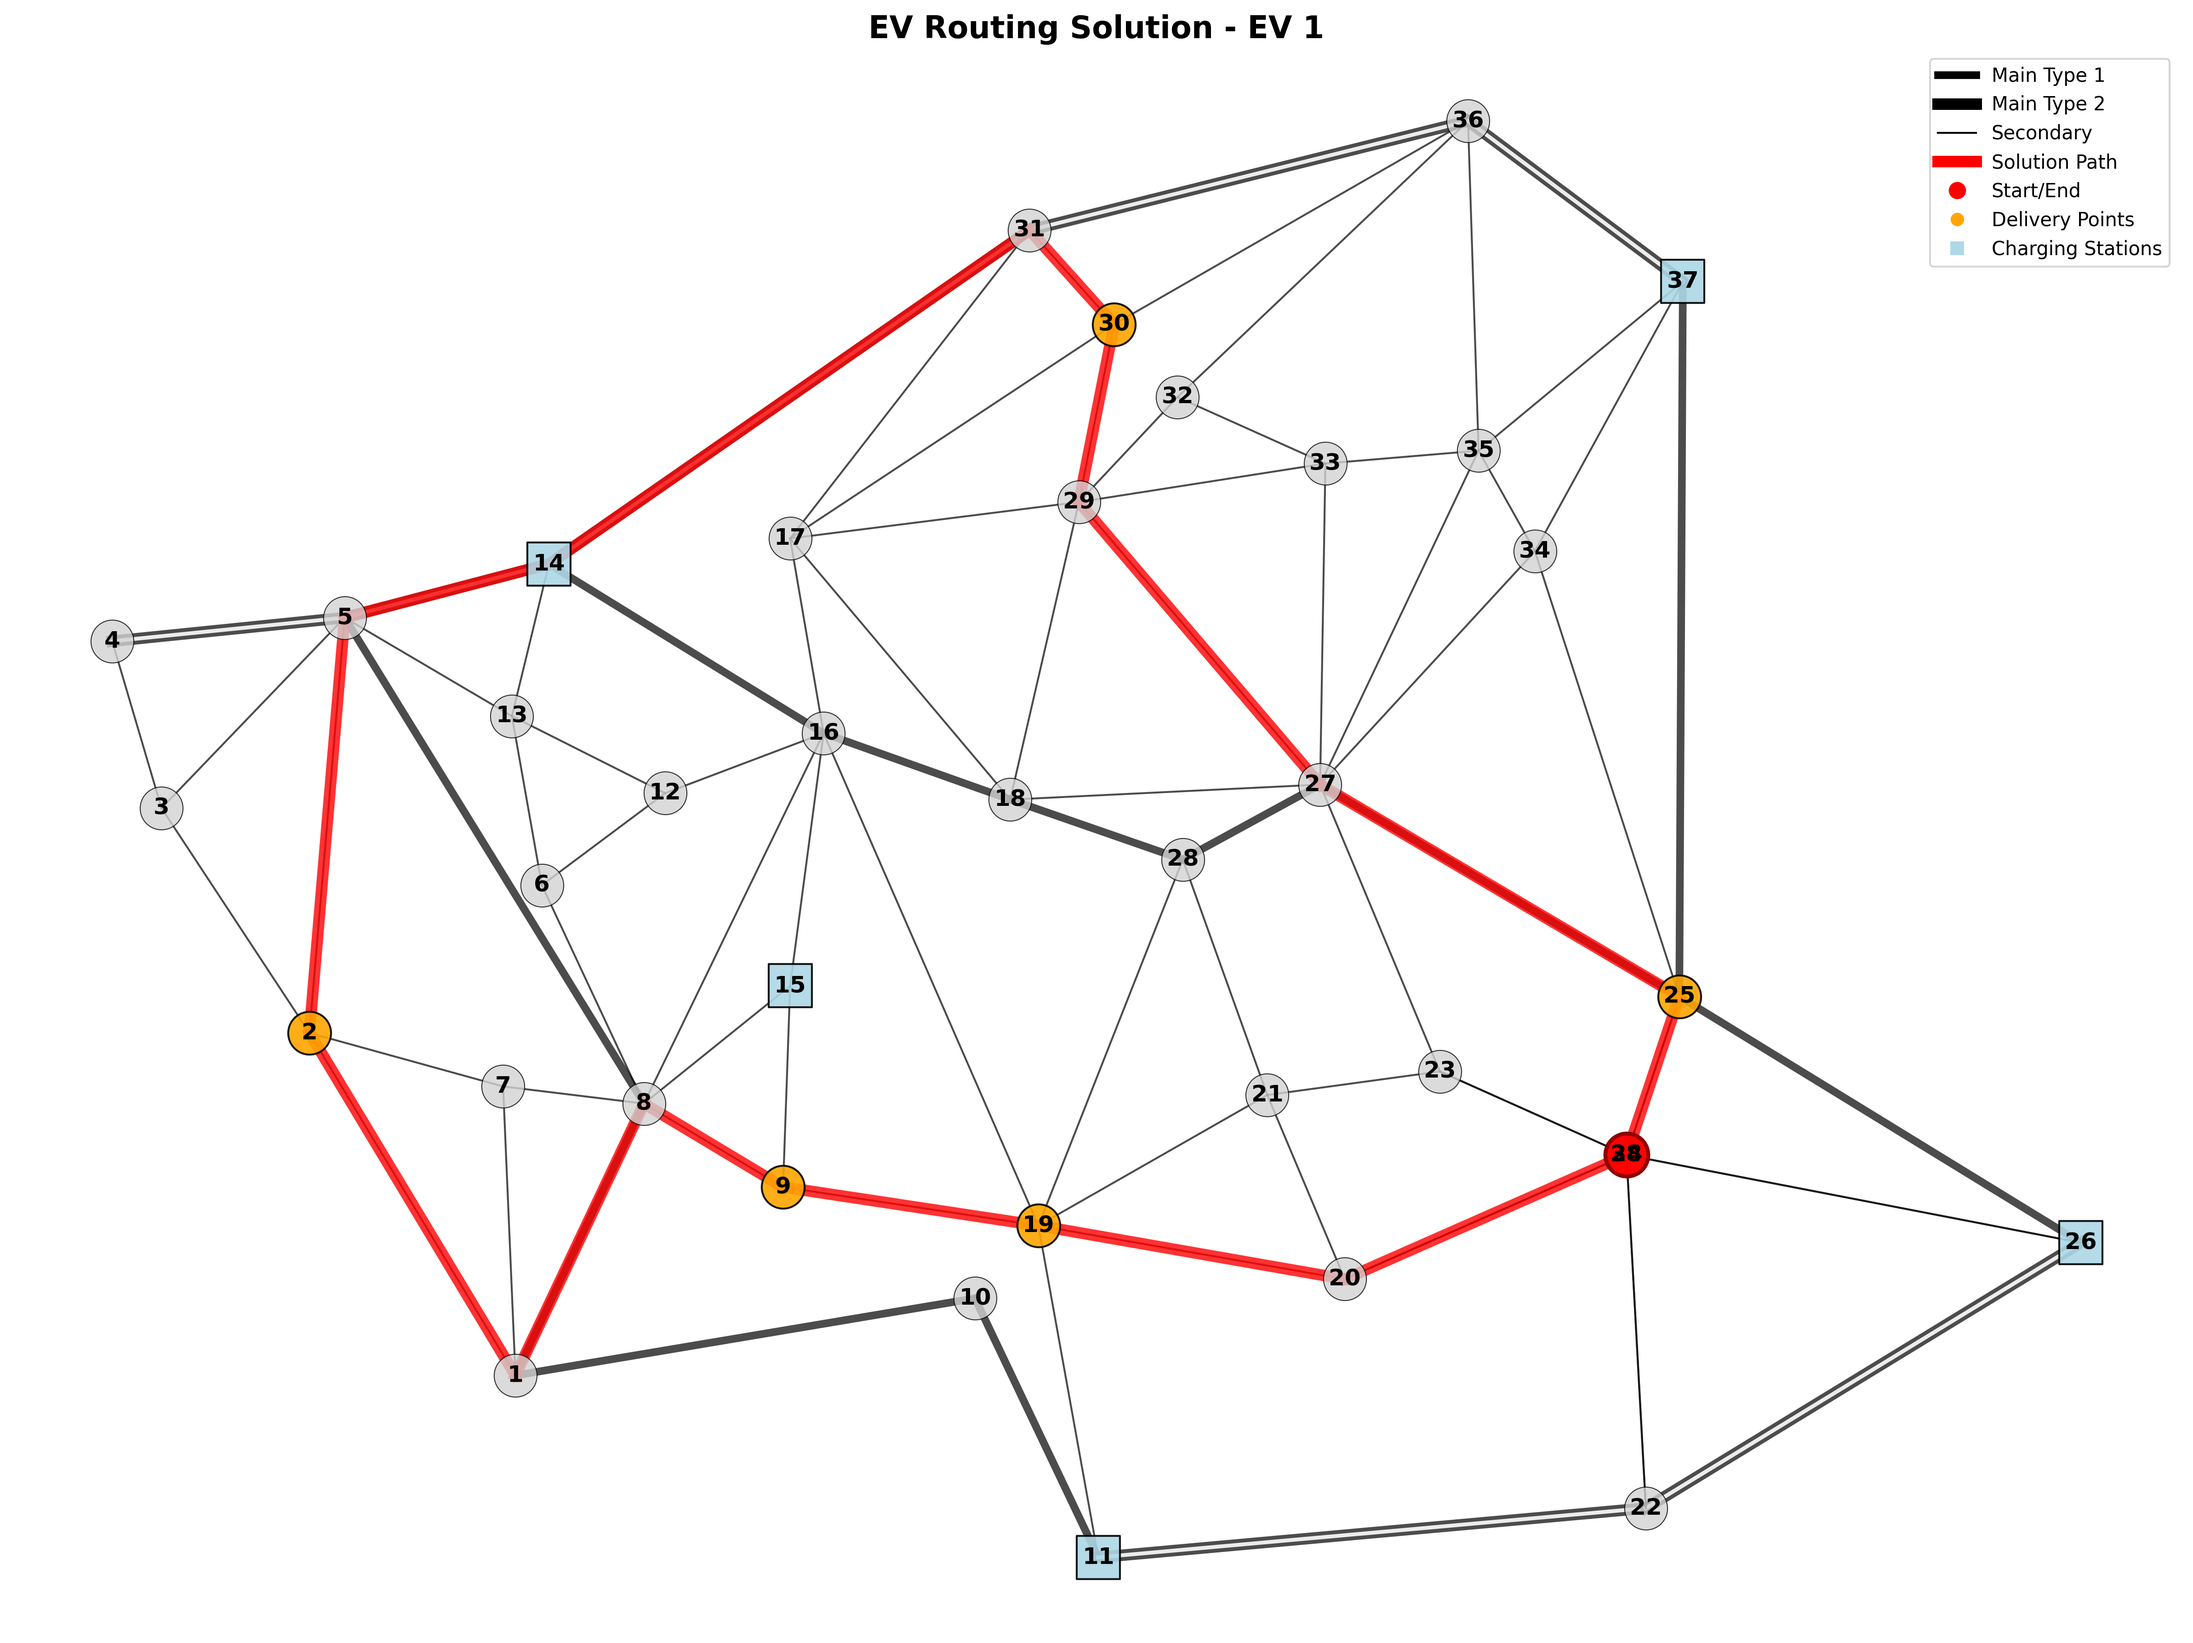
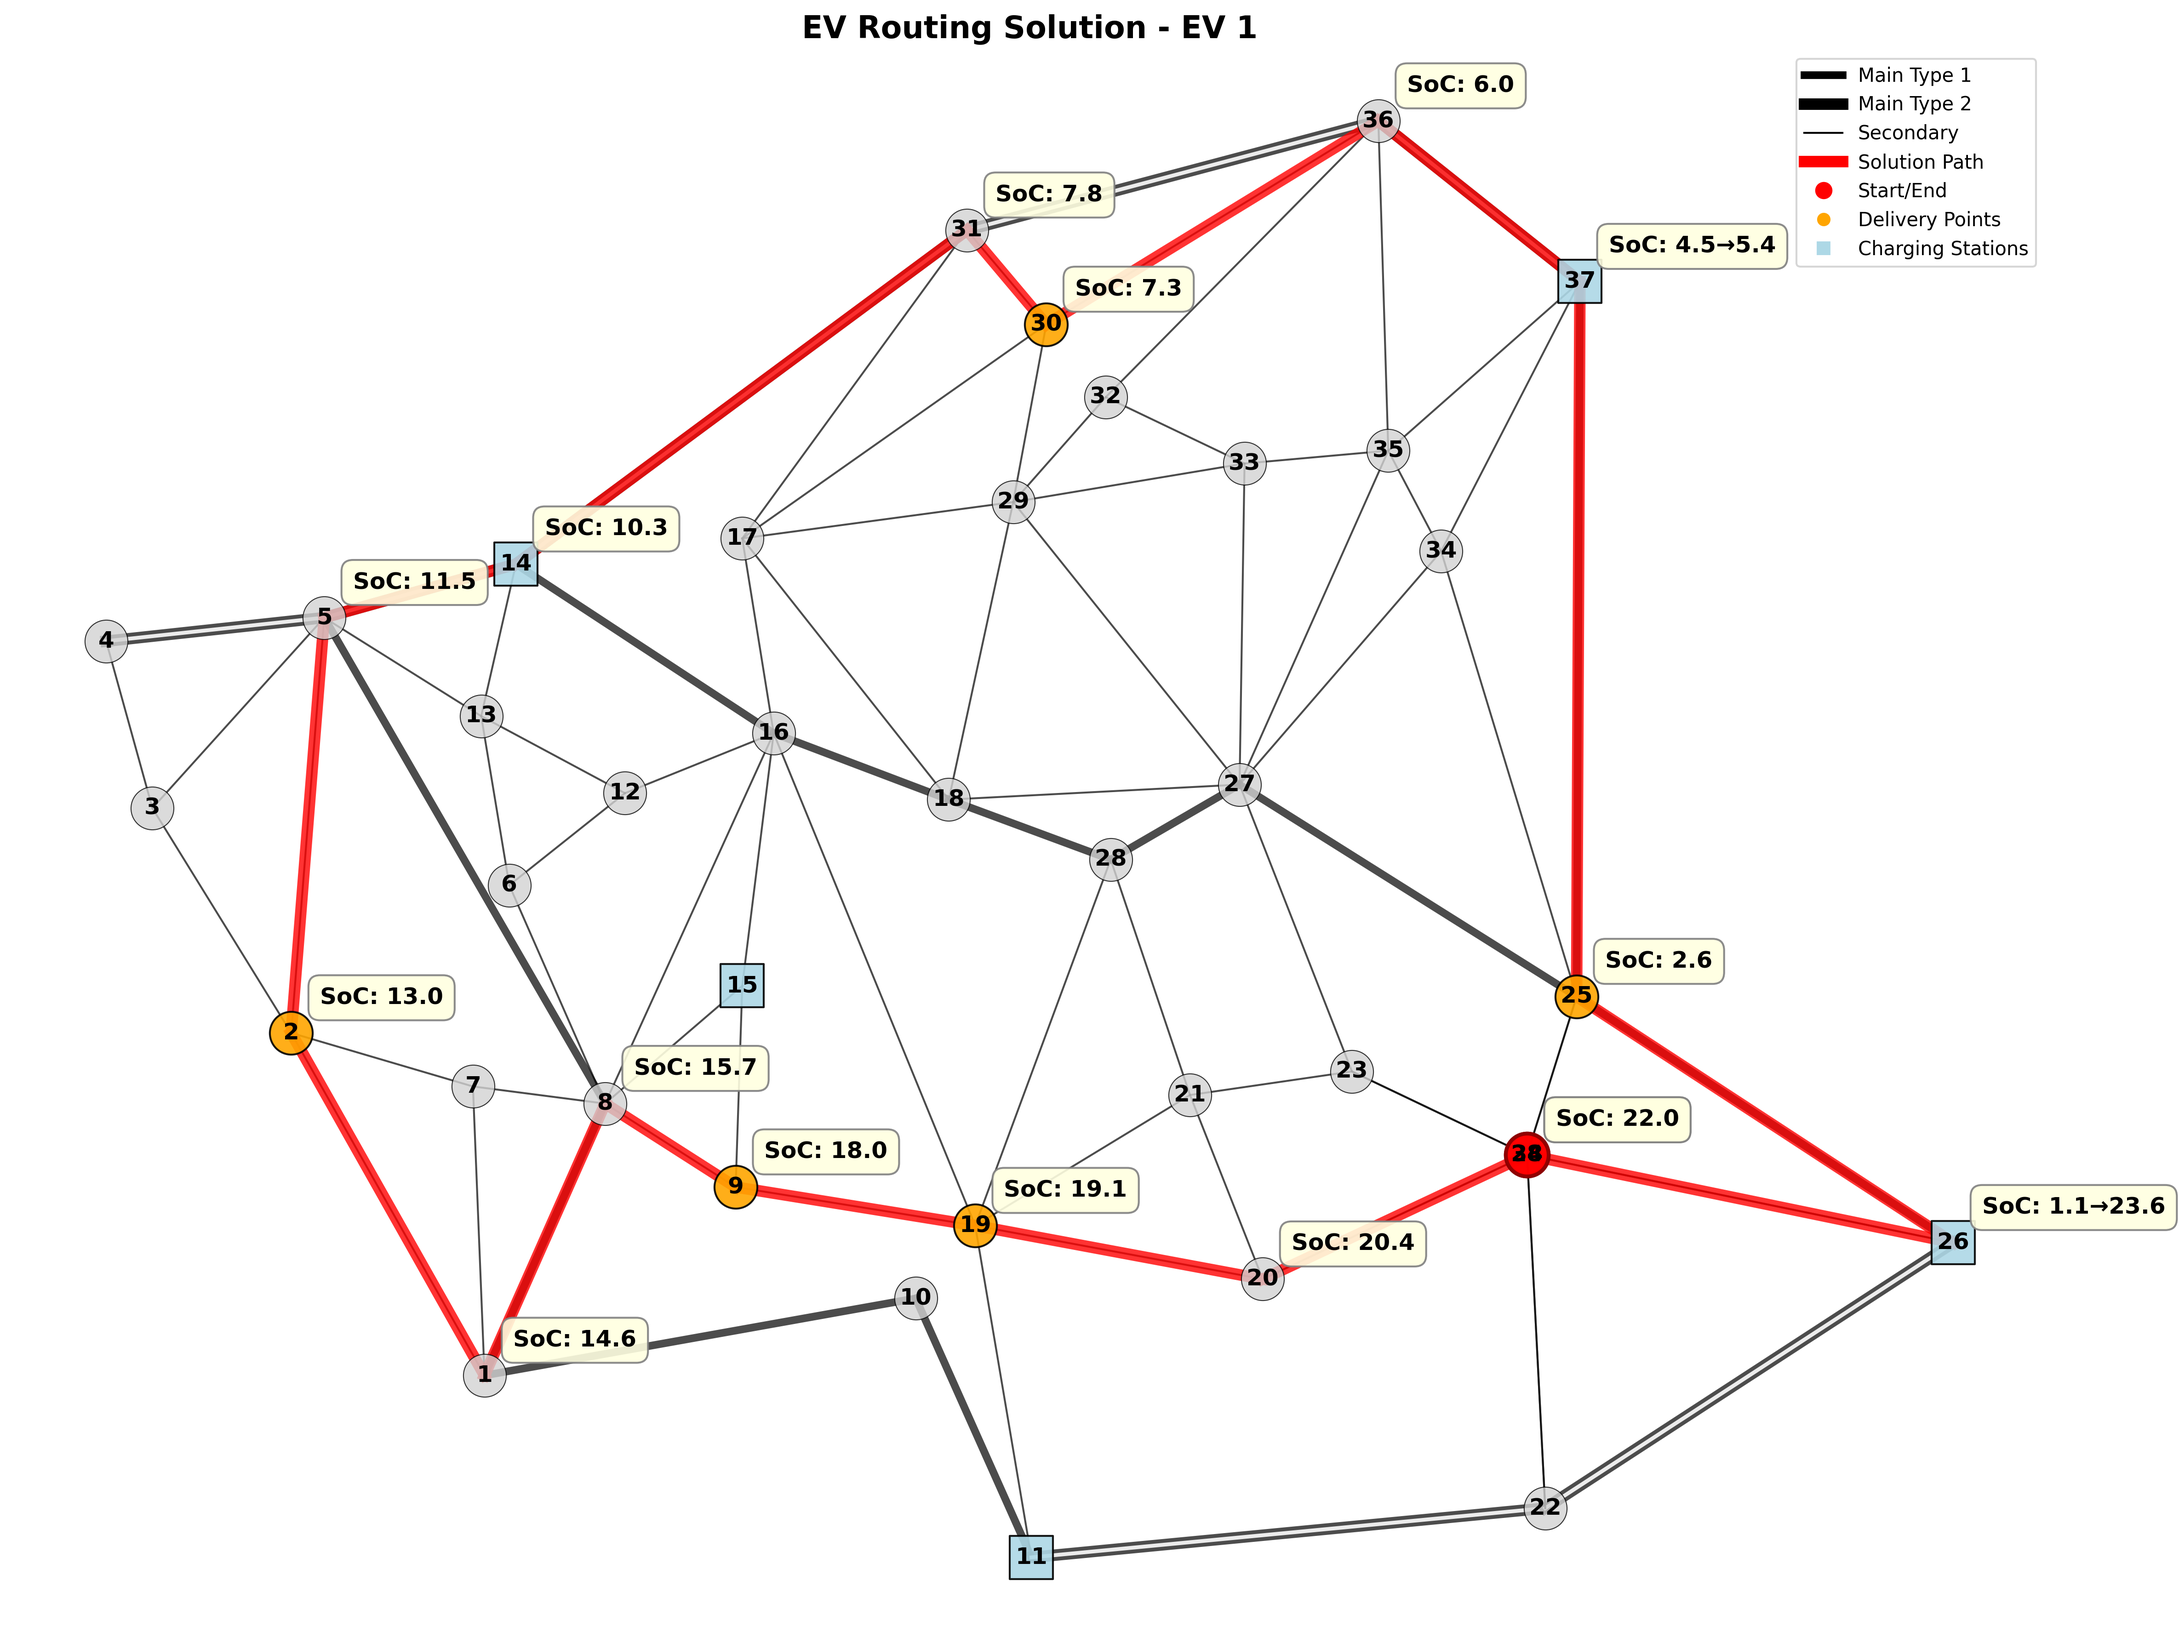
Battery constraints

diff --git a/model/ev_routing_model.py b/model/ev_routing_model.py
@@ -41,13 +41,13 @@ def get_ev_routing_abstract_model():
     m.pKineticEnergy = pyo.Param(m.sPaths, within=pyo.NonNegativeReals)
 
     # Parameters indexed by sDeliveryPoints
-    m.pDeliveryIntersection = pyo.Param(m.sDeliveryPoints, within=m.sIntersections)
+    # m.pDeliveryIntersection = pyo.Param(m.sDeliveryPoints, within=m.sIntersections)  # Unnecessary, since sDeliveryPoints is a subset of sIntersections
     m.pTimeMakingDelivery = pyo.Param(m.sDeliveryPoints, within=pyo.NonNegativeReals)
     m.pTimeWithoutPenalty = pyo.Param(m.sDeliveryPoints, within=pyo.NonNegativeReals)
     m.pDelayPenalty = pyo.Param(m.sDeliveryPoints, within=pyo.NonNegativeReals)
 
     # Parameters indexed by sChargingStations
-    m.pStationIntersection = pyo.Param(m.sChargingStations, within=m.sIntersections)
+    # m.pStationIntersection = pyo.Param(m.sChargingStations, within=m.sIntersections)  # Unnecessary, since sChargingStations is a subset of sIntersections
     m.pChargingPower = pyo.Param(m.sChargingStations, within=pyo.NonNegativeReals)
     m.pChargingPrice = pyo.Param(m.sChargingStations, within=pyo.NonNegativeReals)
     m.pMaxChargingTime = pyo.Param(m.sChargingStations, within=pyo.NonNegativeReals)
@@ -208,7 +208,75 @@ def get_ev_routing_abstract_model():
     # Battery constraints
     # ----
 
-    # TODO: add the battery constraints
+    def c24_soc_arrival_lower_bound(m, intersection):
+        return m.vSoCArrival[intersection] >= m.v01VisitIntersection[intersection] * m.pMinSoC
+
+    m.c24_soc_arrival_lower_bound = pyo.Constraint(
+        m.sIntersections, rule=c24_soc_arrival_lower_bound
+    )
+
+    def c24_soc_arrival_upper_bound(m, intersection):
+        return m.vSoCArrival[intersection] <= m.v01VisitIntersection[intersection] * m.pMaxSoC
+    
+    m.c24_soc_arrival_upper_bound = pyo.Constraint(
+        m.sIntersections, rule=c24_soc_arrival_upper_bound
+    )
+
+    def c25_soc_departure_charging_station(m, charging_station):
+        return (
+            m.vSoCDeparture[charging_station] == 
+            m.vSoCArrival[charging_station] + 
+            m.pChargingPower[charging_station] * m.vTimeCharging[charging_station] * m.pChargerEfficiencyRate[charging_station]
+        )
+
+    m.c25_soc_departure_charging_station = pyo.Constraint(
+        m.sChargingStations, rule=c25_soc_departure_charging_station
+    )
+
+    def c27_soc_departure_non_charging_station(m, intersection):
+        return m.vSoCDeparture[intersection] == m.vSoCArrival[intersection]
+
+    m.c27_soc_departure_non_charging_station = pyo.Constraint(
+        # Set differences are allowed - See https://pyomo.readthedocs.io/en/6.8.0/pyomo_modeling_components/Sets.html#operations
+        m.sIntersections - m.sChargingStations, rule=c27_soc_departure_non_charging_station
+    )
+
+    def c42_soc_starting_point(m):
+        # Multiplying by the binary variable here is unnecessary due to constraint c40_visit_starting_point
+        return m.vSoCArrival[m.pStartingPoint] == m.v01VisitIntersection[m.pStartingPoint] * m.pStartingSoC
+
+    m.c42_soc_starting_point = pyo.Constraint(
+        rule=c42_soc_starting_point
+    )
+
+    def c43_soc_arrival_energy_balance(m, intersection):
+        # Skip for starting point as it's handled by c42
+        if intersection == m.pStartingPoint:
+            return pyo.Constraint.Skip
+        
+        # This is the non-linear constraint as specified in the documentation
+        # SoC arrival = SoC departure from origin - power consumption - acceleration energy + braking energy
+        return m.vSoCArrival[intersection] == sum(
+            m.v01TravelPath[path] * (
+                m.vSoCDeparture[m.pOriginIntersection[path]] -
+                m.pPowerConsAtAvgSpeed[path] * (m.pDistanceAtAvgSpeed[path] / m.pAvgSpeed[path]) -
+                (1 / m.pAccelerationEfficiency - m.pBrakingEfficiency) * m.pKineticEnergy[path]
+            )
+            for path in m.sPaths
+            if m.pDestinationIntersection[path] == intersection
+        )
+
+    m.c43_soc_arrival_energy_balance = pyo.Constraint(
+        m.sIntersections, rule=c43_soc_arrival_energy_balance
+    )
+
+    def c44_soc_ending_point(m):
+        # Multiplying by the binary variable here is unnecessary since the ending point is always visited
+        return m.vSoCDeparture[m.pEndingPoint] == m.v01VisitIntersection[m.pEndingPoint] * m.pStartingSoC
+
+    m.c44_soc_ending_point = pyo.Constraint(
+        rule=c44_soc_ending_point
+    )
 
     # ----
     # Time constraints

diff --git a/model/save_solution_data.py b/model/save_solution_data.py
@@ -86,7 +86,7 @@ def save_solution_data(model_instance, file_path: str):
         paths_df.to_excel(writer, sheet_name='sPaths', index=False)
 
 
-def create_solution_map(model_instance, input_data, file_path: str, coordinates_path: str = None, ev: int = 1):
+def create_solution_map(model_instance, input_data, file_path: str, coordinates_path: str = None, ev: int = 1, eps: float = 1e-5, decimal_precision: int = 1):
     """
     Create a visual map representation of the routing solution.
     
@@ -102,6 +102,10 @@ def create_solution_map(model_instance, input_data, file_path: str, coordinates_
         The path to the JSON file containing node coordinates. If None, uses automatic layout.
     ev: int
         The EV number for which to show delivery points.
+    eps: float
+        Tolerance for considering arrival and departure values as identical.
+    decimal_precision: int
+        Number of decimal places to show for time and SoC values.
     """
     
     # Extract data
@@ -228,11 +232,10 @@ def create_solution_map(model_instance, input_data, file_path: str, coordinates_
     # Add labels for intersections
     nx.draw_networkx_labels(G, pos, font_size=12, font_weight='bold')
     
-    # Add solution information for visited nodes (only key nodes to reduce clutter)
+    # Add solution information for all visited nodes
     for intersection in intersections:
         if (hasattr(model_instance.v01VisitIntersection[intersection], 'value') and 
-            model_instance.v01VisitIntersection[intersection].value > 0 and
-            (intersection in start_end_points or intersection in delivery_points or intersection in charging_stations)):
+            model_instance.v01VisitIntersection[intersection].value > 0):
             
             # Get solution values
             time_arr = getattr(model_instance.vTimeArrival[intersection], 'value', None)
@@ -243,15 +246,21 @@ def create_solution_map(model_instance, input_data, file_path: str, coordinates_
             # Format text more compactly
             info_text = []
             if time_arr is not None and time_dep is not None:
-                info_text.append(f"T: {time_arr:.1f}→{time_dep:.1f}")
+                if abs(time_arr - time_dep) < eps:  # Values are essentially identical
+                    info_text.append(f"T: {time_arr:.{decimal_precision}f}")
+                else:
+                    info_text.append(f"T: {time_arr:.{decimal_precision}f}→{time_dep:.{decimal_precision}f}")
             if soc_arr is not None and soc_dep is not None:
-                info_text.append(f"SoC: {soc_arr:.0f}→{soc_dep:.0f}")
+                if abs(soc_arr - soc_dep) < eps:  # Values are essentially identical
+                    info_text.append(f"SoC: {soc_arr:.{decimal_precision}f}")
+                else:
+                    info_text.append(f"SoC: {soc_arr:.{decimal_precision}f}→{soc_dep:.{decimal_precision}f}")
             
             if info_text:
                 plt.annotate('\n'.join(info_text), 
                            xy=pos[intersection], xytext=(15, 15),
-                           textcoords='offset points', fontsize=8, fontweight='bold',
-                           bbox=dict(boxstyle='round,pad=0.3', facecolor='lightyellow', alpha=0.8, edgecolor='gray'))
+                           textcoords='offset points', fontsize=12, fontweight='bold',
+                           bbox=dict(boxstyle='round,pad=0.5', facecolor='lightyellow', alpha=0.9, edgecolor='gray'))
     
     # Add legend
     legend_elements = [
